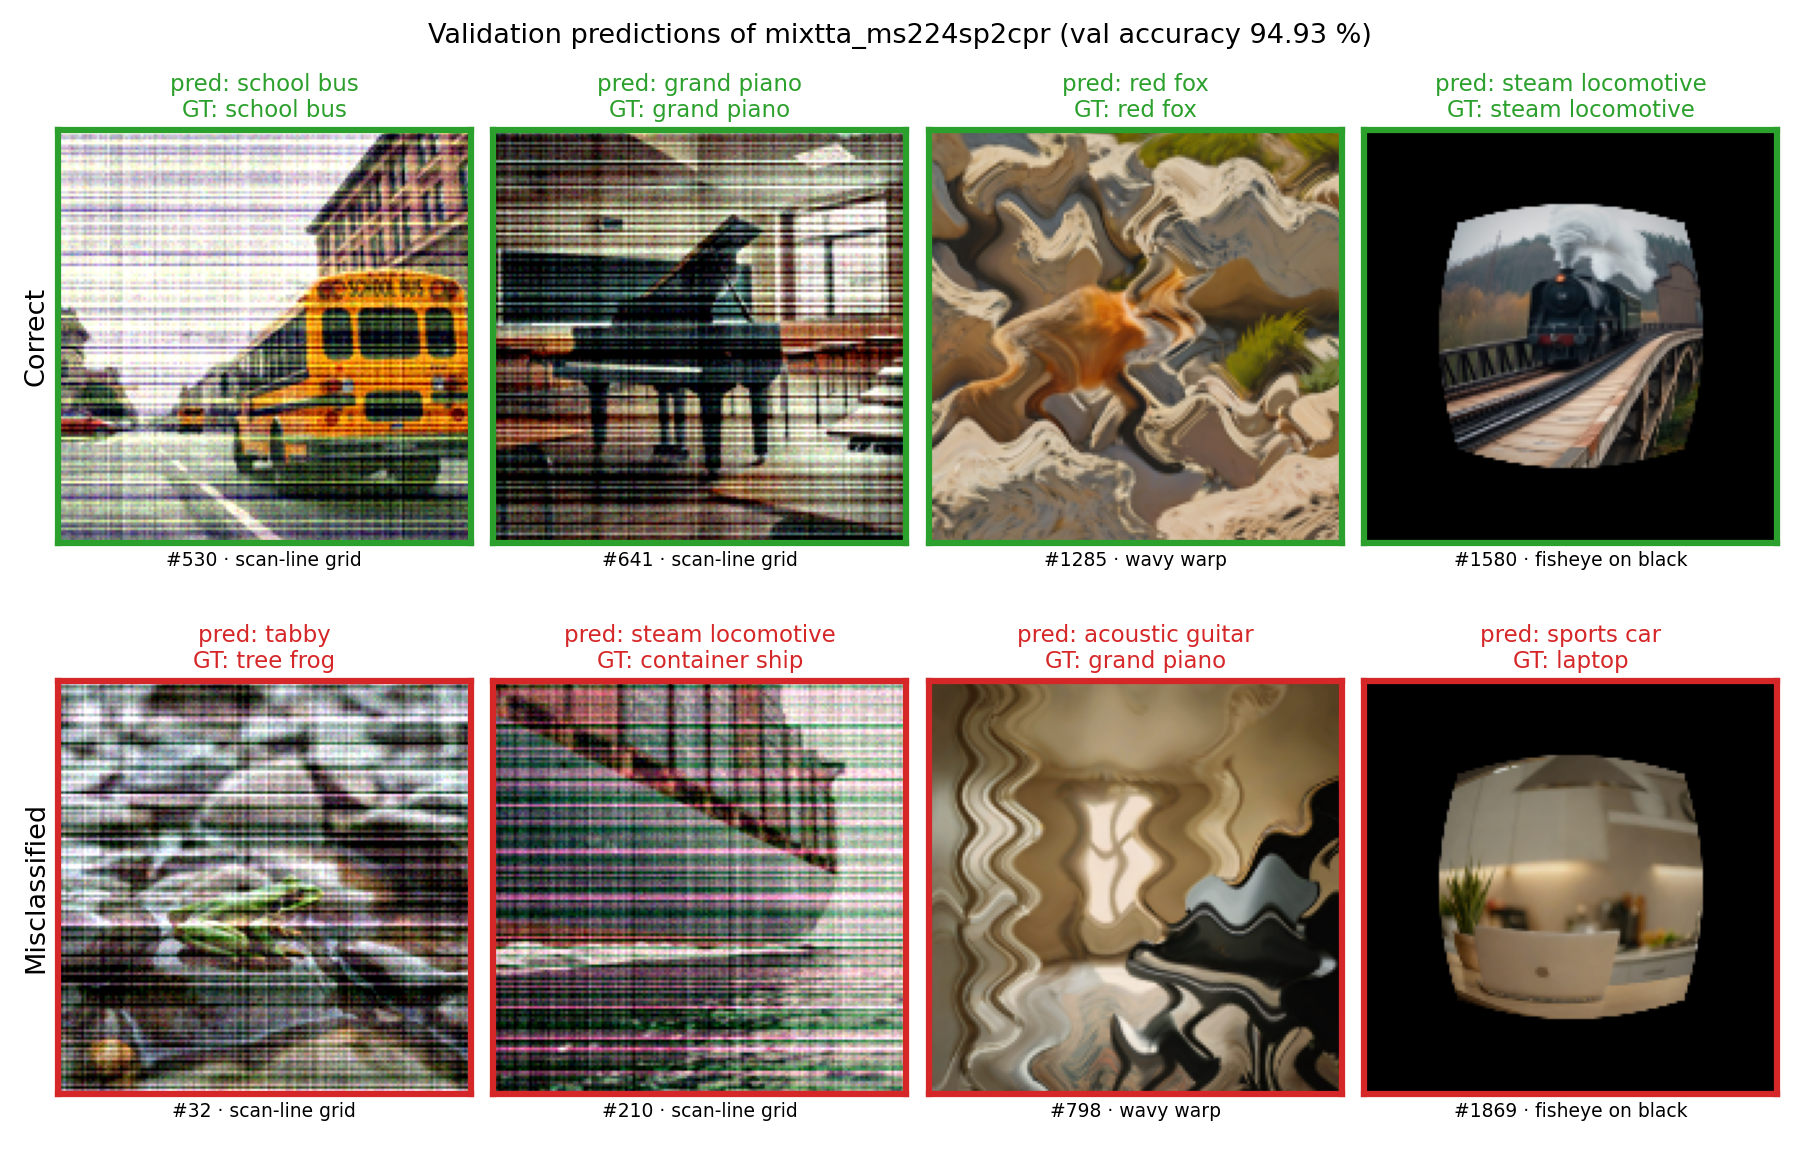
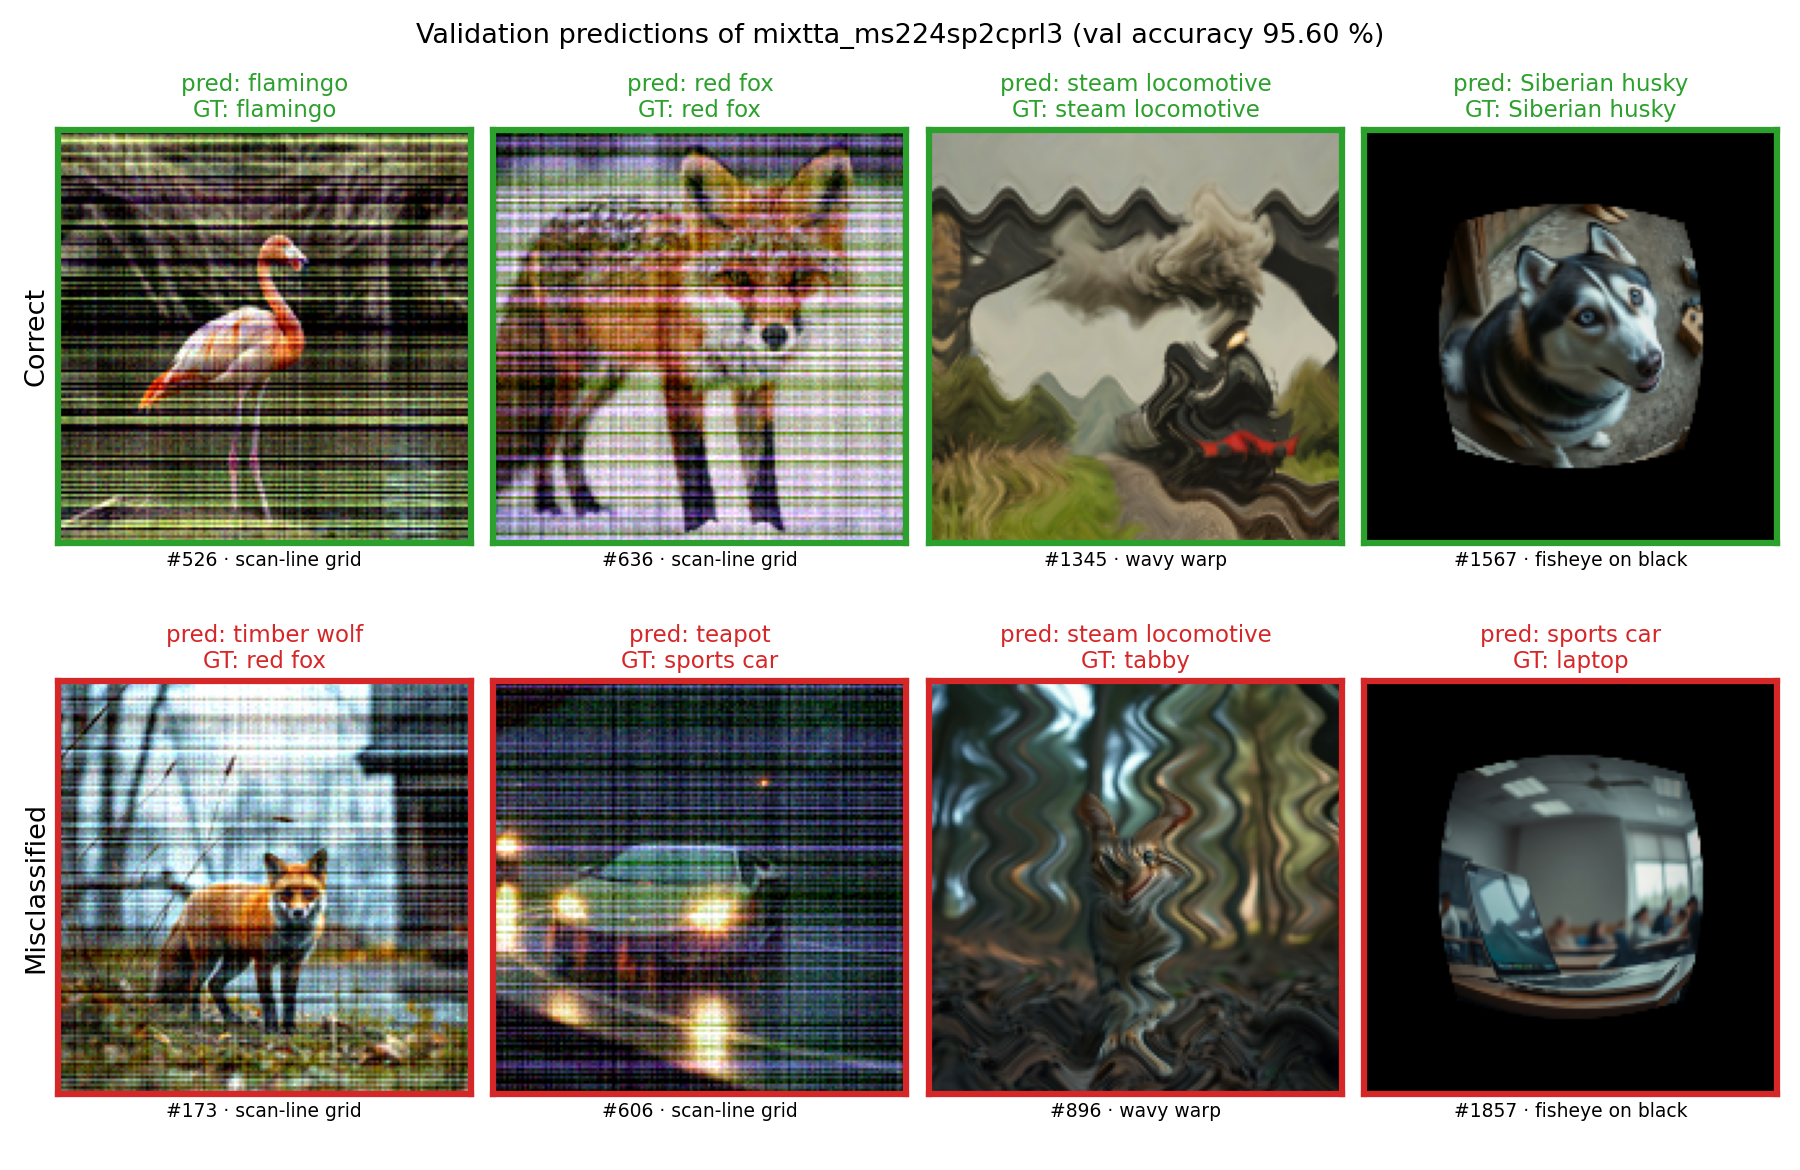
Report Q4: figure and text from the best method (mixtta_ms224sp2cprl3, val 95.60 %)

diff --git a/tools/plot_val_examples.py b/tools/plot_val_examples.py
@@ -3,7 +3,7 @@
 Uses a harness val run (out/val_exp/<method>/val_pred.csv). Images are picked at random (fixed seed), round-robin
 over the 3 val domains, so each domain appears in both rows.
 
-  python tools/plot_val_examples.py [--method mixtta_ms224sp2cpr] [--out figures/val_examples.png]
+  python tools/plot_val_examples.py [--method mixtta_ms224sp2cprl3] [--out figures/val_examples.png]
 """
 import argparse
 import os
@@ -32,7 +32,7 @@ def pick(pos, dom, n, rng):
 
 def main():
     ap = argparse.ArgumentParser()
-    ap.add_argument("--method", default="mixtta_ms224sp2cpr")
+    ap.add_argument("--method", default="mixtta_ms224sp2cprl3")
     ap.add_argument("--out", default=os.path.join(ROOT, "figures", "val_examples.png"))
     ap.add_argument("--seed", type=int, default=0)
     a = ap.parse_args()

diff --git a/report.md b/report.md
@@ -369,22 +369,22 @@ The final method, `mixtta_ms224sp2cpr` (Kaggle 0.93277), addresses each as follo
 ![8 validation images with predicted and ground-truth labels](figures/val_examples.png)
 
 **Setup.**
-- The figure shows the final method, `mixtta_ms224sp2cpr`, from its harness val run: 94.93 %, 107 of 2,112 images wrong.
+- The figure shows the final method, `mixtta_ms224sp2cprl3`, from its harness val run: 95.60 %, 93 of 2,112 images wrong.
 - Green images are correct and red ones misclassified. Under each image are its position in the stream and its val domain.
 - The images were picked at random with a fixed seed. Each row takes one image per val domain plus a second from the scan-line grid domain.
 - `python tools/plot_val_examples.py` regenerates the figure.
 
 **Correct (top row).** Each survives a heavy corruption:
-- scan lines across the whole image (#530, #641);
-- a wave warp that breaks the fox's outline apart (#1285);
-- a small train inside the fisheye's black border (#1580).
+- dense scan lines over the whole image (#526 flamingo, #636 red fox);
+- a wave warp that smears the locomotive into its smoke (#1345);
+- a husky squeezed inside the fisheye's black border (#1567).
 
 **Misclassified (bottom row).**
-- **#32, tree frog → tabby.** The frog is small, and the scan lines wash out its texture against the grey rocks.
-- **#210, container ship → steam locomotive.** Only part of the hull and a railing show under the coloured scan lines.
-- **#798, grand piano → acoustic guitar.** The warp turns the piano into curved wooden shapes, closer to another instrument.
-- **#1869, laptop → sports car.** The laptop is seen from behind (a white lid) and is small inside the black border.
+- **#173, red fox → timber wolf.** The scan lines wash out the fox's orange coat, leaving a wolf-like canid shape in a forest.
+- **#606, sports car → teapot.** A night shot: under the scan lines only the headlights and a curved, shiny body remain.
+- **#896, tabby → steam locomotive.** The warp turns the cat's stripes into wavy dark streaks, like smoke and metal.
+- **#1857, laptop → sports car.** The laptop is small, seen from the side in a classroom, and shrunk by the fisheye.
 
 **Error distribution.**
-- The 107 errors are spread evenly over the val domains: 41 of 776, 34 of 724 and 32 of 612 images.
-- The most frequent confusions are among vehicles and the laptop (sports car ↔ laptop, sports car → airliner, fire engine ↔ sports car), and timber wolf → Siberian husky.
+- The 93 errors are spread evenly over the val domains: 34 of 776, 32 of 724 and 27 of 612 images.
+- The most frequent confusions are among vehicles and the laptop (sports car → airliner, sports car ↔ laptop, sports car ↔ fire engine) and between the timber wolf and the Siberian husky (both directions).
